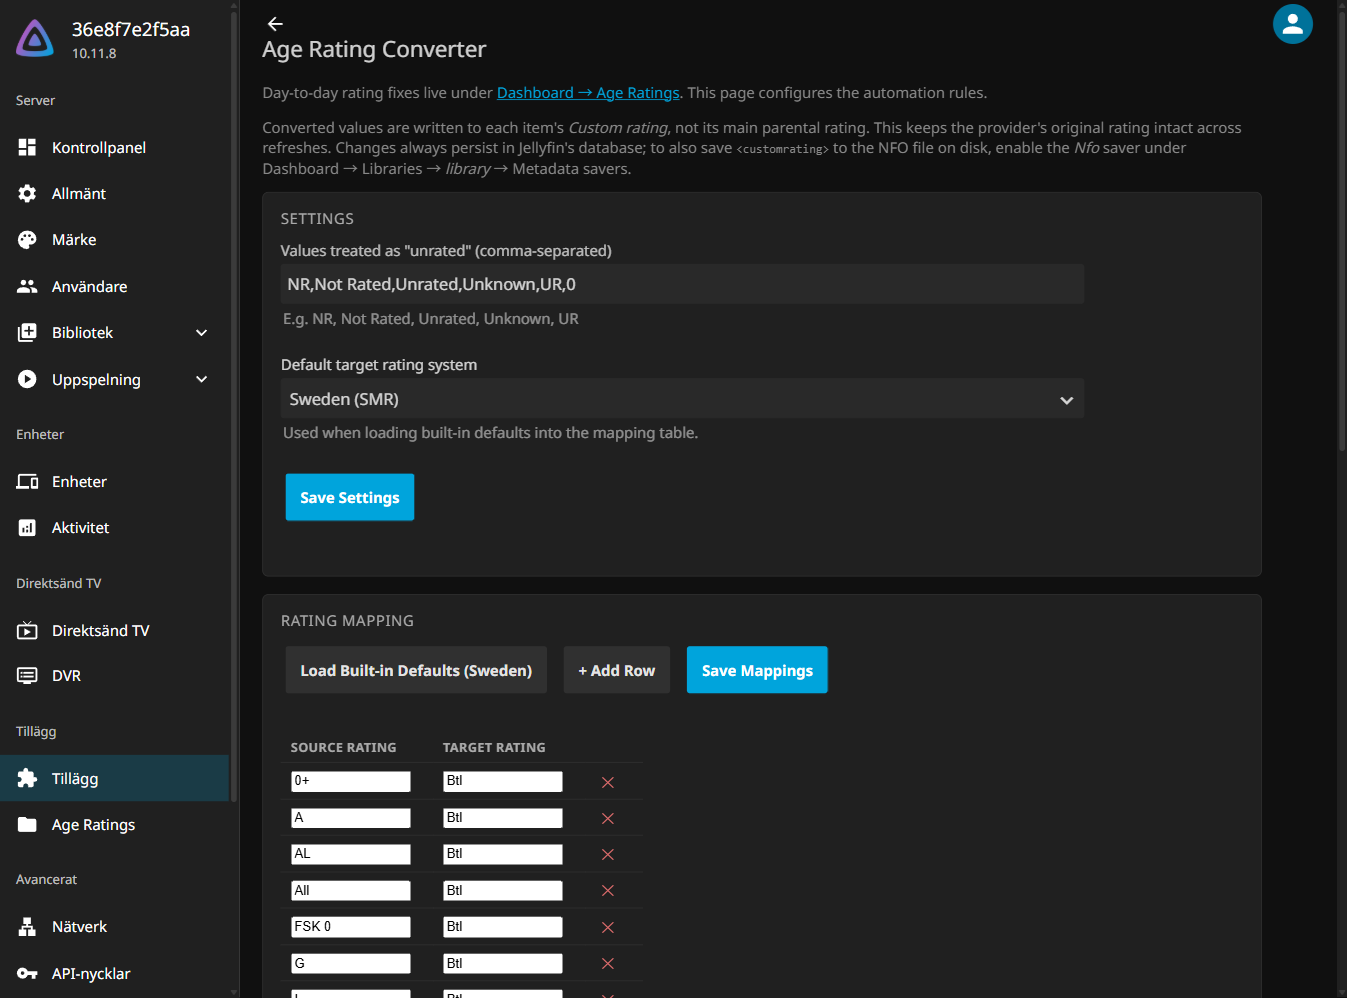
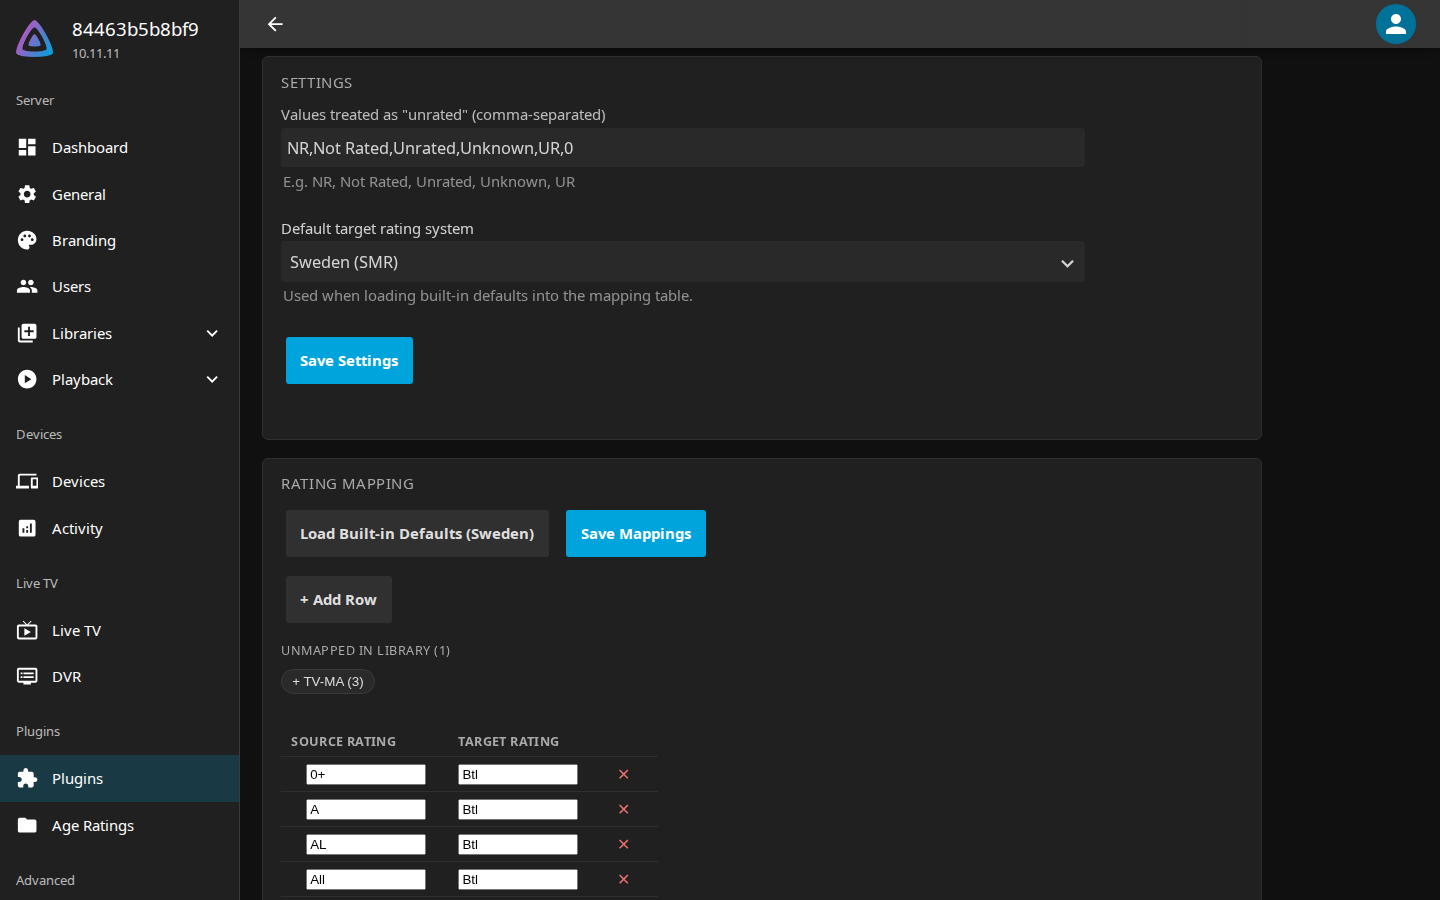
Refresh screenshots; fix screenshot script and dev script exec bits (#4)
The screenshots predated all three merged PRs and advertised a UI the
plugin no longer has — no library filter, an Overwrite checkbox that is
gone, no Re-map all button, no unmapped worklist. Recaptured against a
local dev instance with 90 movies and 10 series.

To make them show something real rather than an empty install, the
instance was set to target Sweden with the built-in defaults loaded, a
conversion was run, and a TV-14 mapping added the way the new worklist
intends — leaving TV-MA genuinely unmapped, so every chip carries a
truthful count.

dev/screenshot.mjs was broken and could not have produced the main-page
image since the page was renamed. It navigated to "Age Ratings Main"
while Plugin.cs registers "AgeRatings", so it timed out. It also captured
the config page unscrolled, where at 900px tall the mapping table sits
entirely below the fold and only the column headers are visible. It now
anchors on the Settings card, which frames the target-system choice, the
mapping actions and the unmapped worklist with a few rows beneath —
anchoring on the mapping card instead scrolls too far and fills the frame
with near-identical rating rows.

The four dev/*.sh scripts were tracked 100644, so ./dev/run.sh fails with
"Permission denied" on a fresh clone even though README and CLAUDE.md
both tell you to run it that way. Now 100755.

Documented how to regenerate the screenshots (the root/test account and
scanned library the script assumes are not guessable), noted that
[…]

diff --git a/CLAUDE.md b/CLAUDE.md
@@ -21,6 +21,8 @@ The output DLL goes to `Jellyfin.Plugin.AgeRating/bin/Debug/net9.0/Jellyfin.Plug
 
 A reproducible end-to-end dev environment (builds the DLL, generates mock media, and runs Jellyfin 10.11 with the plugin preinstalled) lives under `dev/` — run `./dev/run.sh` (or `./dev/run.sh --reset` for a clean wipe). Runtime state (Jellyfin config, mock media, built artifacts) lands in `.dev-env/`, gitignored.
 
+The scripts under `dev/` are tracked mode `100755`; if a checkout loses the executable bit (a CIFS/SMB working copy will), `./dev/run.sh` fails with "Permission denied" — `chmod +x dev/*.sh` rather than invoking them via `bash`.
+
 Two install modes, chosen via compose profiles in [dev/docker-compose.yml](dev/docker-compose.yml):
 
 - **`./dev/run.sh`** (default, `direct` profile) — a sidecar container drops the compiled DLL straight into `/config/plugins/<name>_<version>/` before Jellyfin starts. Fast loop for code changes.
@@ -62,6 +64,7 @@ Follow the patterns already established in the existing files rather than introd
 | `Jellyfin.Plugin.AgeRating/Api/LibraryChoiceDto.cs` | Response shape for `GET /AgeRating/Libraries` — id/name pair backing the main page's library filter. |
 | `Jellyfin.Plugin.AgeRating/Api/UnmappedRatingEntryDto.cs` | Response shape for `GET /AgeRating/UnmappedRatings` — unmapped source rating / count pair. |
 | `Jellyfin.Plugin.AgeRating/Api/GlobalCountsDto.cs` | Response shape for `GET /AgeRating/Counts` — server-wide unrated/pending counts for the Automation card. |
+| `dev/screenshot.mjs` | Playwright capture of both dashboard pages into `docs/screenshots/`. Navigates by the page **names registered in `Plugin.cs`** (`AgeRatings`, `Age Rating Converter`) — rename a page there and this silently times out. Expects an admin `root`/`test` and a scanned library. |
 | `build.yaml` | Plugin metadata for the build/packaging pipeline. Must stay in sync with `Plugin.cs`'s GUID, the assembly version, and `targetAbi`. |
 | `manifest.json` | Jellyfin plugin-repository manifest served over HTTP (see Releasing). |
 

diff --git a/README.md b/README.md
@@ -6,11 +6,11 @@ The plugin writes to Jellyfin's **CustomRating** field rather than overwriting `
 
 ## Screenshots
 
-**Age Ratings page** — day-to-day item list with automation controls and persistence status:
+**Age Ratings page** — day-to-day item list with automation controls, per-library NFO persistence status, and filter chips for unrated / pending / unmapped items:
 
 ![Age Ratings main page](docs/screenshots/main-page.png)
 
-**Settings page** — target system selection and mapping table editor:
+**Settings page** — mapping table editor, with the unmapped-in-library worklist above it:
 
 ![Config page](docs/screenshots/config-page.png)
 
@@ -133,6 +133,21 @@ A reproducible end-to-end dev environment under [dev/](dev/) builds the DLL and 
 - `./dev/run.sh --via-manifest` — *manifest* mode; packages the plugin into a `.zip`, serves it with an nginx sidecar, and Jellyfin installs it through the standard Repositories UI. Exercises the same path real users hit.
 
 Other commands: `./dev/run.sh --reset` (wipe state), `--stop`, `--down`, `--logs`.
+
+### Regenerating the screenshots
+
+The images in [docs/screenshots/](docs/screenshots/) come from [dev/screenshot.mjs](dev/screenshot.mjs), driven by Playwright against the dev harness. It expects an admin account named `root` with password `test`, and a library that has actually been scanned — the shots are only useful with real data behind them.
+
+```bash
+./dev/run.sh                              # start Jellyfin with the plugin
+# complete the setup wizard as root/test, add /media/Movies and /media/Shows,
+# let the scan finish, then pick a target system and load the built-in defaults
+npm install playwright
+npx playwright install --with-deps chromium
+node dev/screenshot.mjs                   # writes docs/screenshots/*.png
+```
+
+Re-shoot whenever the dashboard UI changes — a stale screenshot is worse than none, since it advertises behaviour the plugin no longer has.
 
 ### Releasing
 
